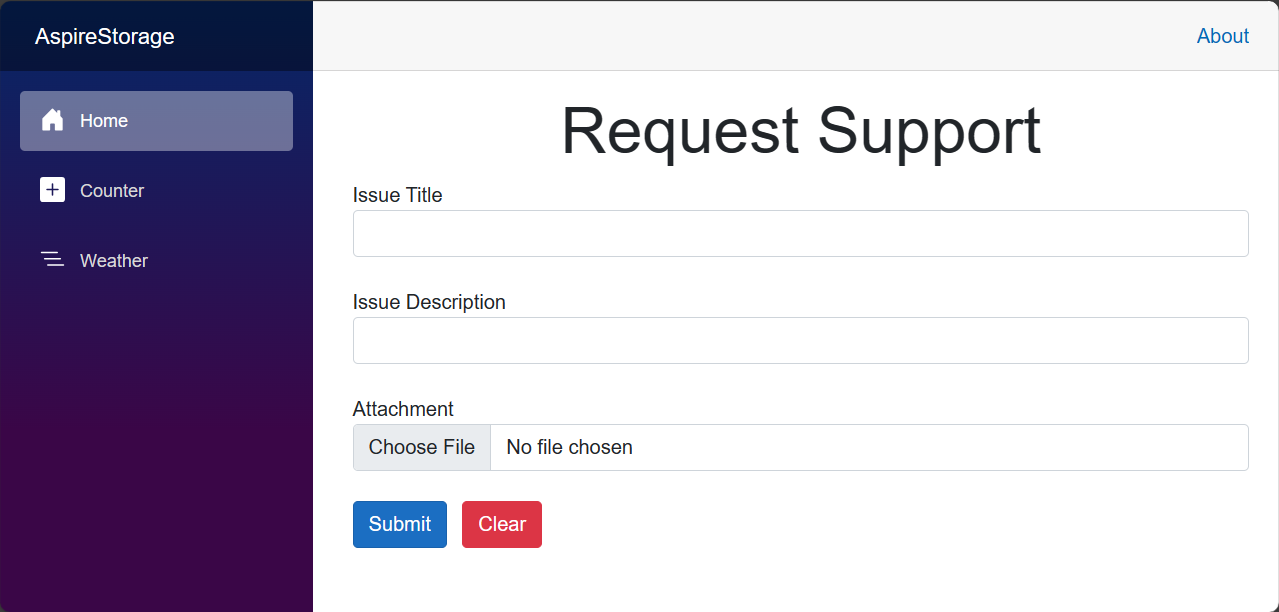
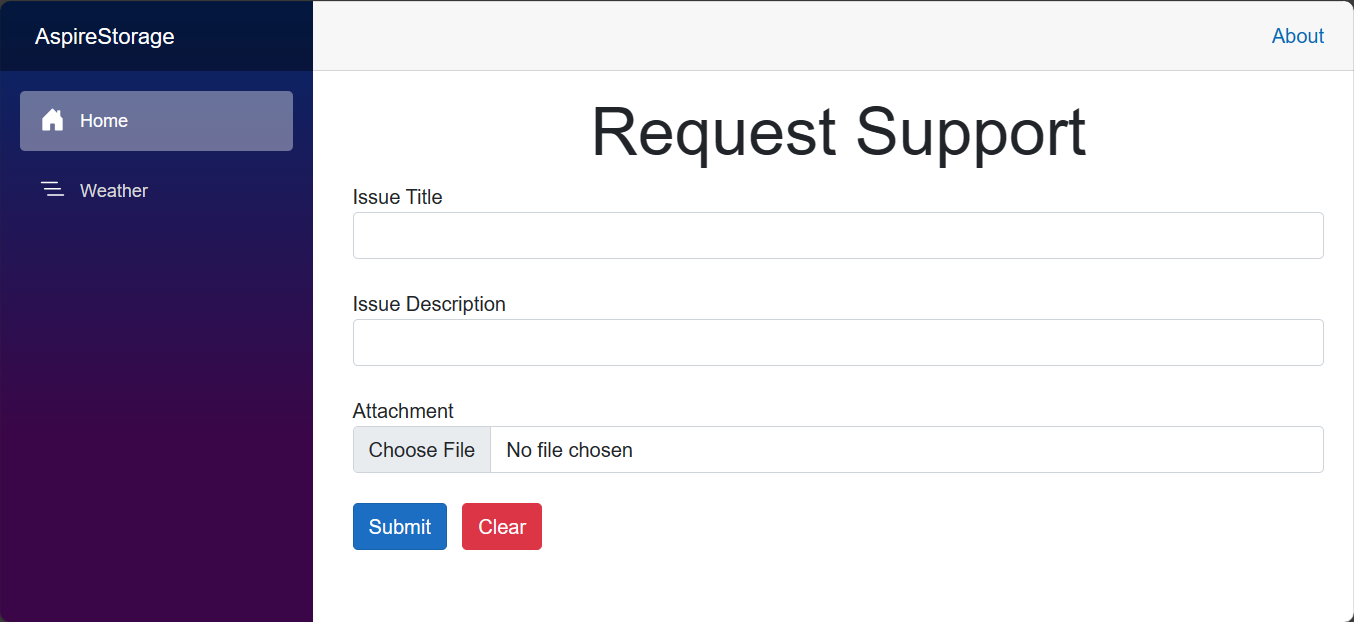
Recapture image, use the None option

diff --git a/docs/storage/snippets/tutorial/AspireStorage/AspireStorage/Program.cs b/docs/storage/snippets/tutorial/AspireStorage/AspireStorage/Program.cs
@@ -10,8 +10,7 @@ builder.AddAzureQueueService("QueueConnection");
 builder.AddServiceDefaults();
 
 // Add services to the container.
-builder.Services.AddRazorComponents()
-    .AddInteractiveServerComponents();
+builder.Services.AddRazorComponents();
 
 var app = builder.Build();
 
@@ -44,7 +43,6 @@ app.UseHttpsRedirection();
 app.UseStaticFiles();
 app.UseAntiforgery();
 
-app.MapRazorComponents<App>()
-    .AddInteractiveServerRenderMode();
+app.MapRazorComponents<App>();
 
 app.Run();

diff --git a/docs/storage/azure-storage.md b/docs/storage/azure-storage.md
@@ -71,7 +71,8 @@ You also need to assign the following roles to the user account you are logged i
     - Leave the rest of the values at their defaults and select **Next**.
 1. On the **Additional information** screen:
     - Make sure **.NET 8.0** is selected.
-    - Make sure **Enlist in .NET Aspire orchestration** is checked and select **Create**.
+    - Ensure the **Interactive render mode** is set to **None**.
+    - Check the **Enlist in .NET Aspire orchestration** option and select **Create**.
 
 Visual Studio creates a new ASP.NET Core solution that is structured to use .NET Aspire. The solution consists of the following projects:
 
@@ -115,12 +116,12 @@ In the _Program.cs_ file of the _AspireStorage_ project, add calls to the <xref:
 
 :::zone pivot="azurite"
 
-:::code source="snippets/tutorial/AspireStorage/AspireStorage/Program.cs" highlight="2-3,7-8,30-39":::
+:::code source="snippets/tutorial/AspireStorage/AspireStorage/Program.cs" highlight="2-3,7-8,29-38":::
 
 :::zone-end
 :::zone pivot="azure-portal,azure-cli"
 
-:::code source="snippets/tutorial/AspireStorage/AspireStorage/Program.cs" range="1-27,41-50" highlight="2-3,7-8":::
+:::code source="snippets/tutorial/AspireStorage/AspireStorage/Program.cs" range="1-26,40-58" highlight="2-3,7-8":::
 
 :::zone-end
 
